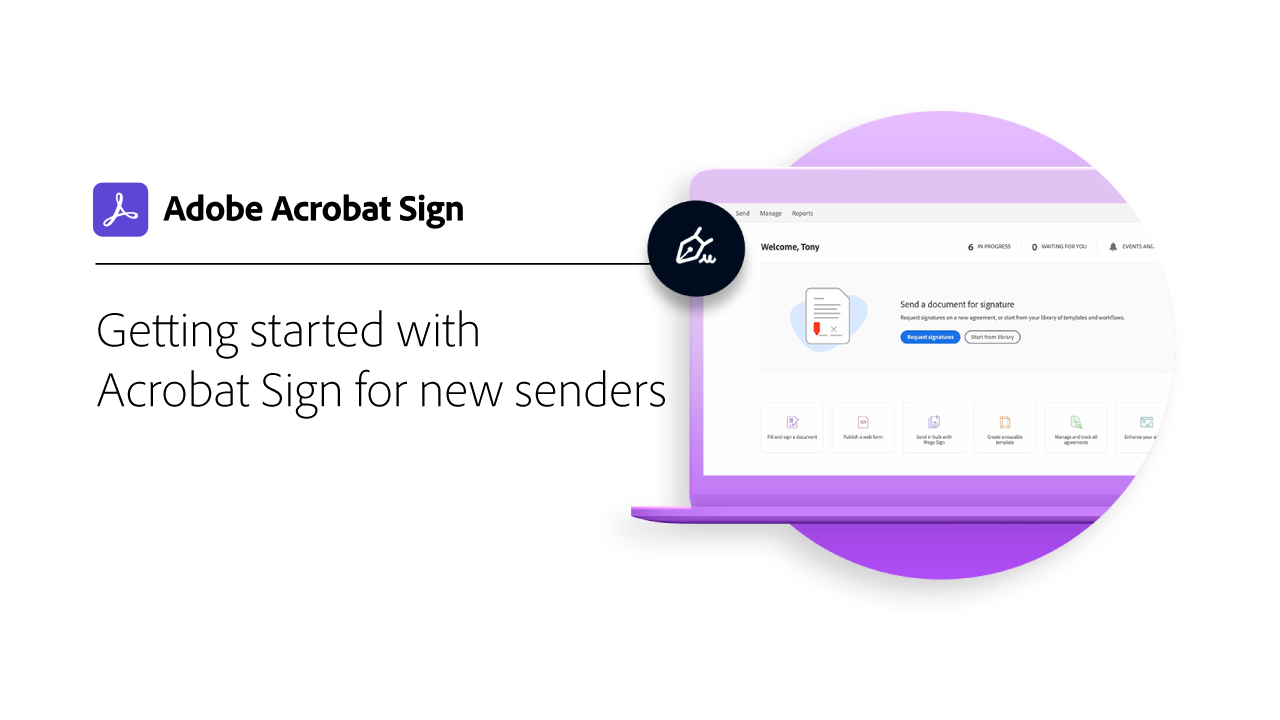
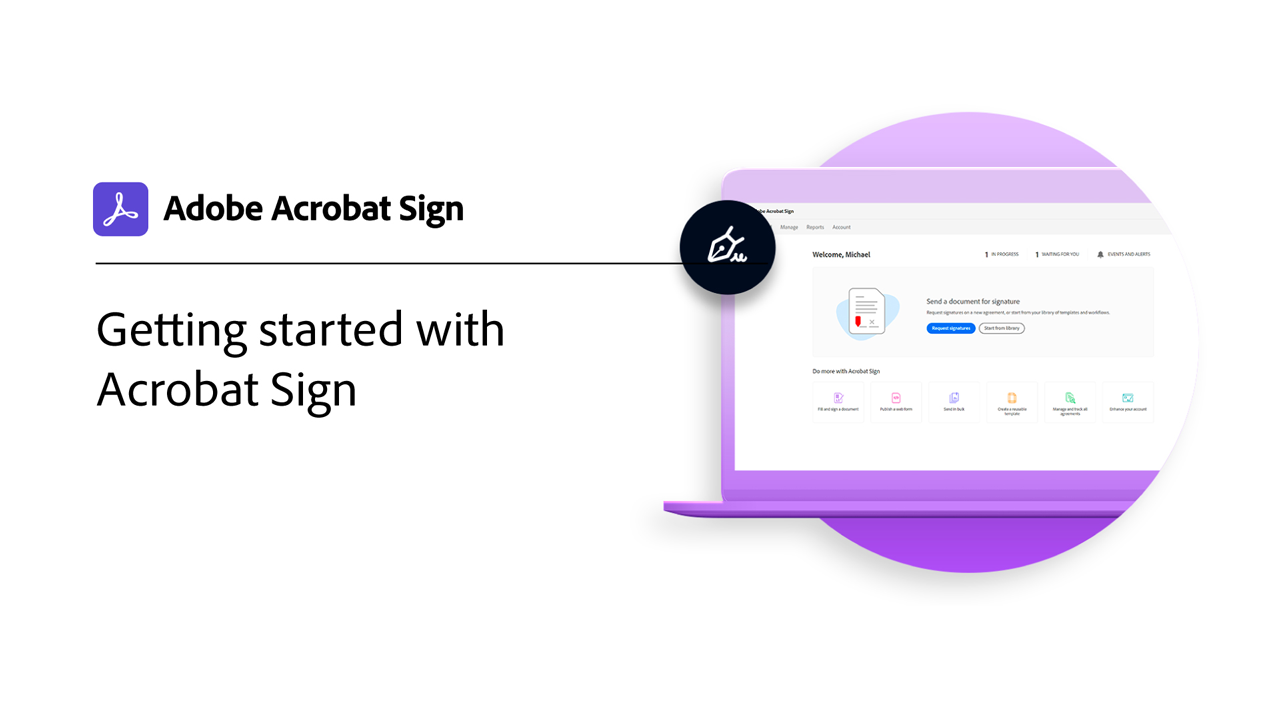
Revised getting started

diff --git a/help/sign/sign-beginner-tutorials/new-sender.md b/help/sign/sign-beginner-tutorials/new-sender.md
@@ -1,5 +1,5 @@
 ---
-title: Getting Started with Acrobat Sign for New Senders
+title: Getting Started with Acrobat Sign
 description: This comprehensive tutorial is a great place to start for new senders in Adobe Sign
 role: User
 product: adobe sign
@@ -9,8 +9,12 @@ thumbnail: KT-8989.jpg
 kt: 8989
 exl-id: d4309ad3-003a-4415-9845-8919006c7567
 ---
-# Getting started with Acrobat Sign for new senders
+# Getting started with Acrobat Sign
 
-If you're new to using Acrobat Sign, this tutorial is a great place to start. This comprehensive tutorial focuses on all the basics to get you up and running quickly with Acrobat Sign.
+Are you new to using Acrobat Sign? This tutorial is a great place to start because it focuses on all the basics to get you up and running quickly with Acrobat Sign.
+
+>[!NOTE]
+>
+>This tutorial is specifically for business- and enterprise-level plans.
 
 >[!VIDEO](https://video.tv.adobe.com/v/337151?hidetitle=true)

diff --git a/help/sign/TOC.md b/help/sign/TOC.md
@@ -17,7 +17,7 @@ breadcrumb-title: Acrobat Sign Tutorials
   + [Overview](sign-beginner-tutorials/beginner-users-overview.md)
   + Sending {#getting-started-sending}
     + [Workspace basics](sign-beginner-tutorials/quick-tour.md)
-    +  [Getting started with Acrobat Sign for new senders](sign-beginner-tutorials/new-sender.md)
+    +  [Getting started with Acrobat Sign](sign-beginner-tutorials/new-sender.md)
     + [Sending to a single recipient](sign-beginner-tutorials/send-to-single-recipient.md)
     + [Sending to multiple recipients](sign-beginner-tutorials/send-to-multiple-recipients.md)
     + [Adding fields to your documents](sign-beginner-tutorials/adding-fields.md)

diff --git a/help/sign/sign-beginner-tutorials/beginner-users-overview.md b/help/sign/sign-beginner-tutorials/beginner-users-overview.md
@@ -36,10 +36,10 @@ Get up-to-speed on how to send, sign, and track documents with these brief step-
   </td>
   <td>
     <a href="new-sender.md">
-      <img alt="Getting started with Acrobat Sign for new senders" src="../assets/gettingstartednew.png" />
+      <img alt="Getting started with Acrobat Sign" src="../assets/gettingstartednew.png" />
     </a>
     <div>
-    <a href="new-sender.md"><strong>Getting started with Acrobat Sign for new senders</strong></a>
+    <a href="new-sender.md"><strong>Getting started with Acrobat Sign</strong></a>
     </div>
     <em>This comprehensive tutorial is a great place to start for new senders in Acrobat Sign</em>
     <br>
